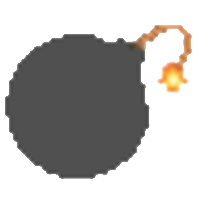
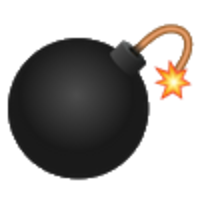
improve bomb img

diff --git a/src/hooks/game/show-chance-card.ts b/src/hooks/game/show-chance-card.ts
@@ -33,10 +33,10 @@ export class ShowChanceCard {
                 const back = jQuery('<div class="table-body-board-fields-one-back"/>').appendTo(field.find('div.table-body-board-fields-one-wrap'));
                 switch (card.card.type) {
                     case 'teleport':
-                        back.append('<div class="_logo teleport"/>');
+                        back.append('<div class="_logo _rotating teleport"/>');
                         break;
                     case 'jail':
-                        back.append('<div class="_logo jail"/>');
+                        back.append('<div class="_logo _rotating jail"/>');
                         break;
                     case 'cash_in':
                         back.append(`<span class="profit_pos ion-social-usd _text">+${card.sum}</span>`);

diff --git a/src/style/game/show-chance-card.less b/src/style/game/show-chance-card.less
@@ -101,13 +101,14 @@
                 height: 78.4px;
                 width: 37.099999999999994px;
             }
-            [mnpl-line="1"] & {
-                transform: rotate(90deg);
+            &._rotating {
+                [mnpl-line="1"] & {
+                    transform: rotate(90deg);
+                }
+                [mnpl-line="3"] & {
+                    transform: rotate(270deg);
+                }
             }
-            [mnpl-line="3"] & {
-                transform: rotate(270deg);
-            }
-
             &.teleport {
                 background-image: url("https://m1.dogecdn.wtf/fields/special/wormhole.svg");
             }

diff --git a/src/style/game/game-stats.less b/src/style/game/game-stats.less
@@ -118,7 +118,7 @@
                 background-size: 19px;
             }
             .pool-bomb {
-                background-size: 26px;
+                background-size: 28px;
             }
             .pool-skip {
                 background-size: 24px;
